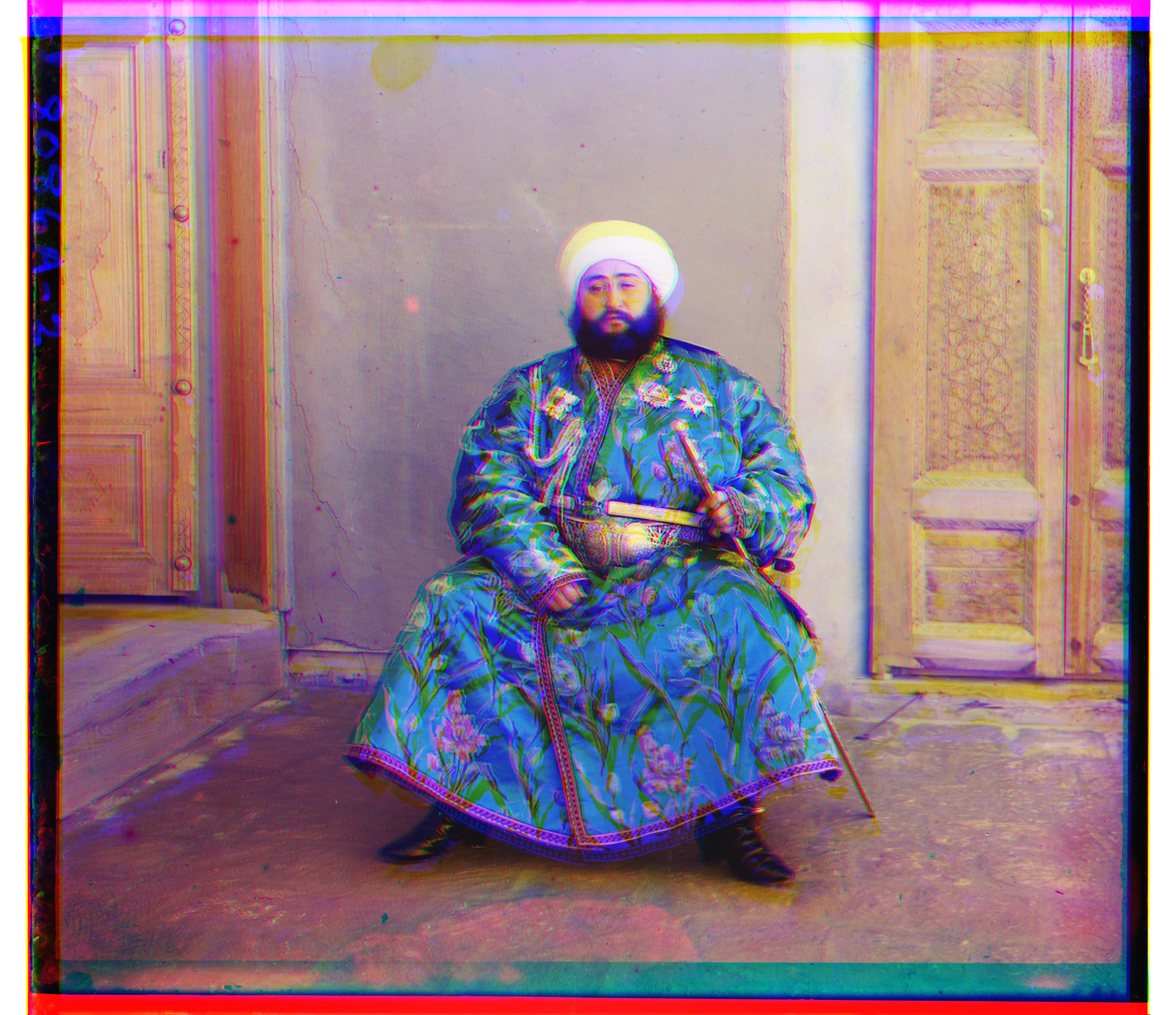
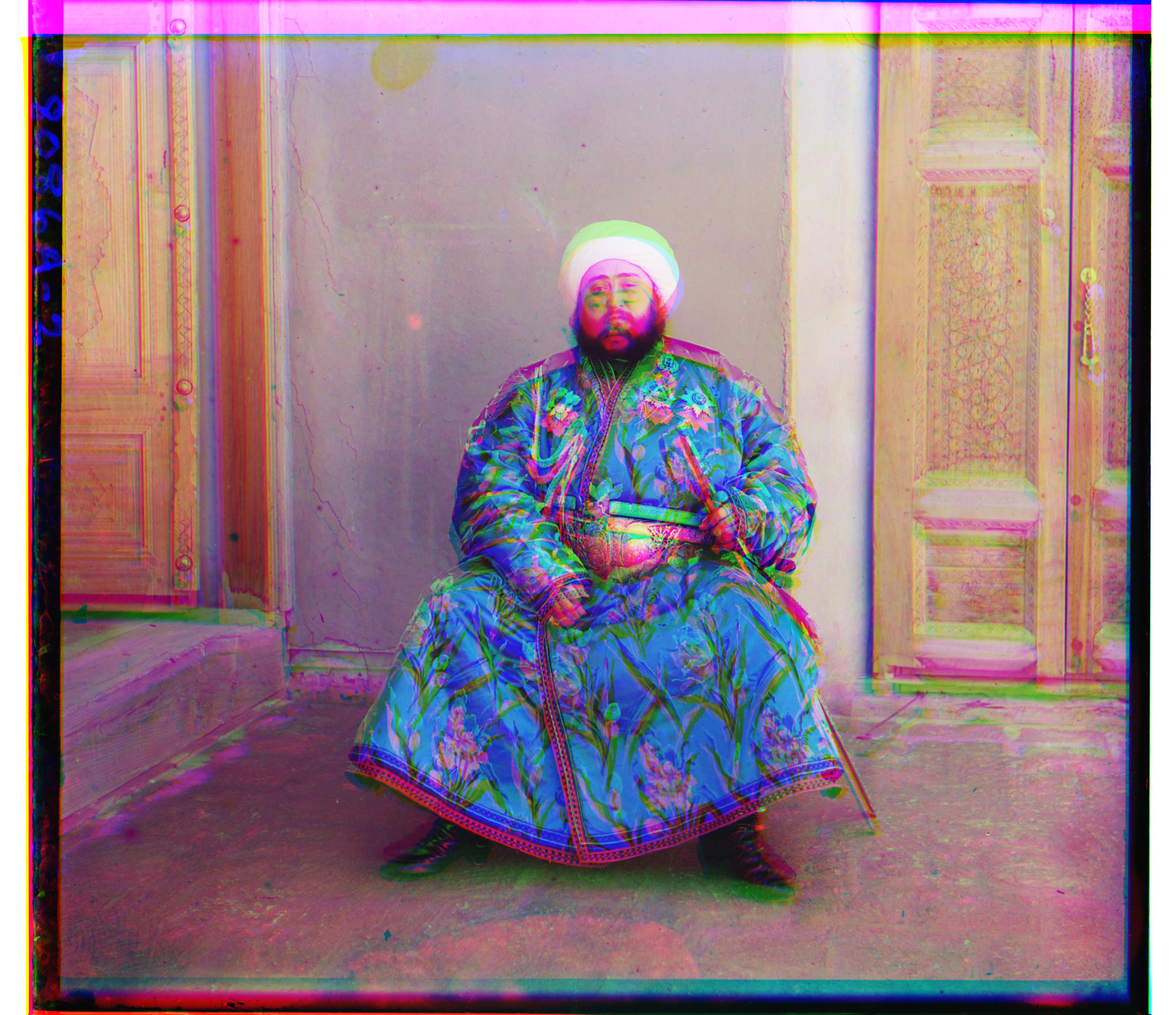
ssd to ncc and changed factor for pyramid

diff --git a/index.html b/index.html
@@ -107,53 +107,53 @@
   <div class="row">
     <div class="column">
       <img src="out/church.jpg" alt="Church" style="width:100%">
-      <p style="text-align: center; font-size: 15px;">church.tif | G: (-3, 0), R: (-3, 26)</p>
+      <p style="text-align: center; font-size: 15px;">church.tif | G: (-5, 0), R: (-6, 52)</p>
     </div>
     <div class="column">
       <img src="out/emir.jpg" alt="Emir" style="width:100%">
-      <p style="text-align: center; font-size: 15px;">emir.tif | G: (4, -2), R: (9, 53)</p>
+      <p style="text-align: center; font-size: 15px;">emir.tif | G: (7, -3), R: (17, 107)</p>
     </div>
     <div class="column">
       <img src="out/harvesters.jpg" alt="Harvesters" style="width:100%">
-      <p style="text-align: center; font-size: 15px;">harvesters.tif | G: (-2, 59), R: (-1, 128)</p>
+      <p style="text-align: center; font-size: 15px;">harvesters.tif | G: (-3, 118), R: (-1, 95)</p>
     </div>
   </div>
   <div class="row">
     <div class="column">
       <img src="out/icon.jpg" alt="Icon" style="width:100%">
-      <p style="text-align: center; font-size: 15px;">icon.tif | G: (8, 21), R: (-3, 105)</p>
+      <p style="text-align: center; font-size: 15px;">icon.tif | G: (16, 42), R: (22, 89)</p>
     </div>
     <div class="column">
       <img src="out/lady.jpg" alt="Lady" style="width:100%">
-      <p style="text-align: center; font-size: 15px;">lady.tif | G: (-3, 28), R: (-8, 120)</p>
+      <p style="text-align: center; font-size: 15px;">lady.tif | G: (-6, 57), R: (-17, 123)</p>
     </div>
     <div class="column">
       <img src="out/melons.jpg" alt="Melons" style="width:100%">
-      <p style="text-align: center; font-size: 15px;">melons.tif | G: (2, 41), R: (-2, 148)</p>
+      <p style="text-align: center; font-size: 15px;">melons.tif | G: (4, 83), R: (7, 176)</p>
     </div>
   </div>
   <div class="row">
     <div class="column">
       <img src="out/onion_church.jpg" alt="Onion Church" style="width:100%">
-      <p style="text-align: center; font-size: 15px;">onion_church.tif | G: (11, 26), R: (1, 54)</p>
+      <p style="text-align: center; font-size: 15px;">onion_church.tif | G: (17, 55), R: (0, 108)</p>
     </div>
     <div class="column">
       <img src="out/self_portrait.jpg" alt="Self Portrait" style="width:100%">
-      <p style="text-align: center; font-size: 15px;">self_portrait.tif | G: (-1, 25), R: (1, 66)</p>
+      <p style="text-align: center; font-size: 15px;">self_portrait.tif | G: (-2, 50), R: (-5, 130)</p>
     </div>
     <div class="column">
       <img src="out/three_generations.jpg" alt="Three Generations" style="width:100%">
-      <p style="text-align: center; font-size: 15px;">three_generations.tif | G: (2, 26), R: (4, 54)</p>
+      <p style="text-align: center; font-size: 15px;">three_generations.tif | G: (5, 52), R: (7, 108)</p>
     </div>
   </div>
   <div class="row">
     <div class="column">
       <img src="out/train.jpg" alt="Train" style="width:100%">
-      <p style="text-align: center; font-size: 15px;">train.tif | G: (-3, 69), R: (-1, 119)</p>
+      <p style="text-align: center; font-size: 15px;">train.tif | G: (-7, 111), R: (1, 107)</p>
     </div>
     <div class="column">
       <img src="out/workshop.jpg" alt="Workshop" style="width:100%">
-      <p style="text-align: center; font-size: 15px;">workshop.tif | G: (-2, 27), R: (-8, 34)</p>
+      <p style="text-align: center; font-size: 15px;">workshop.tif | G: (-5, 53), R: (-16, 69)</p>
     </div>
   </div>
 </body>
